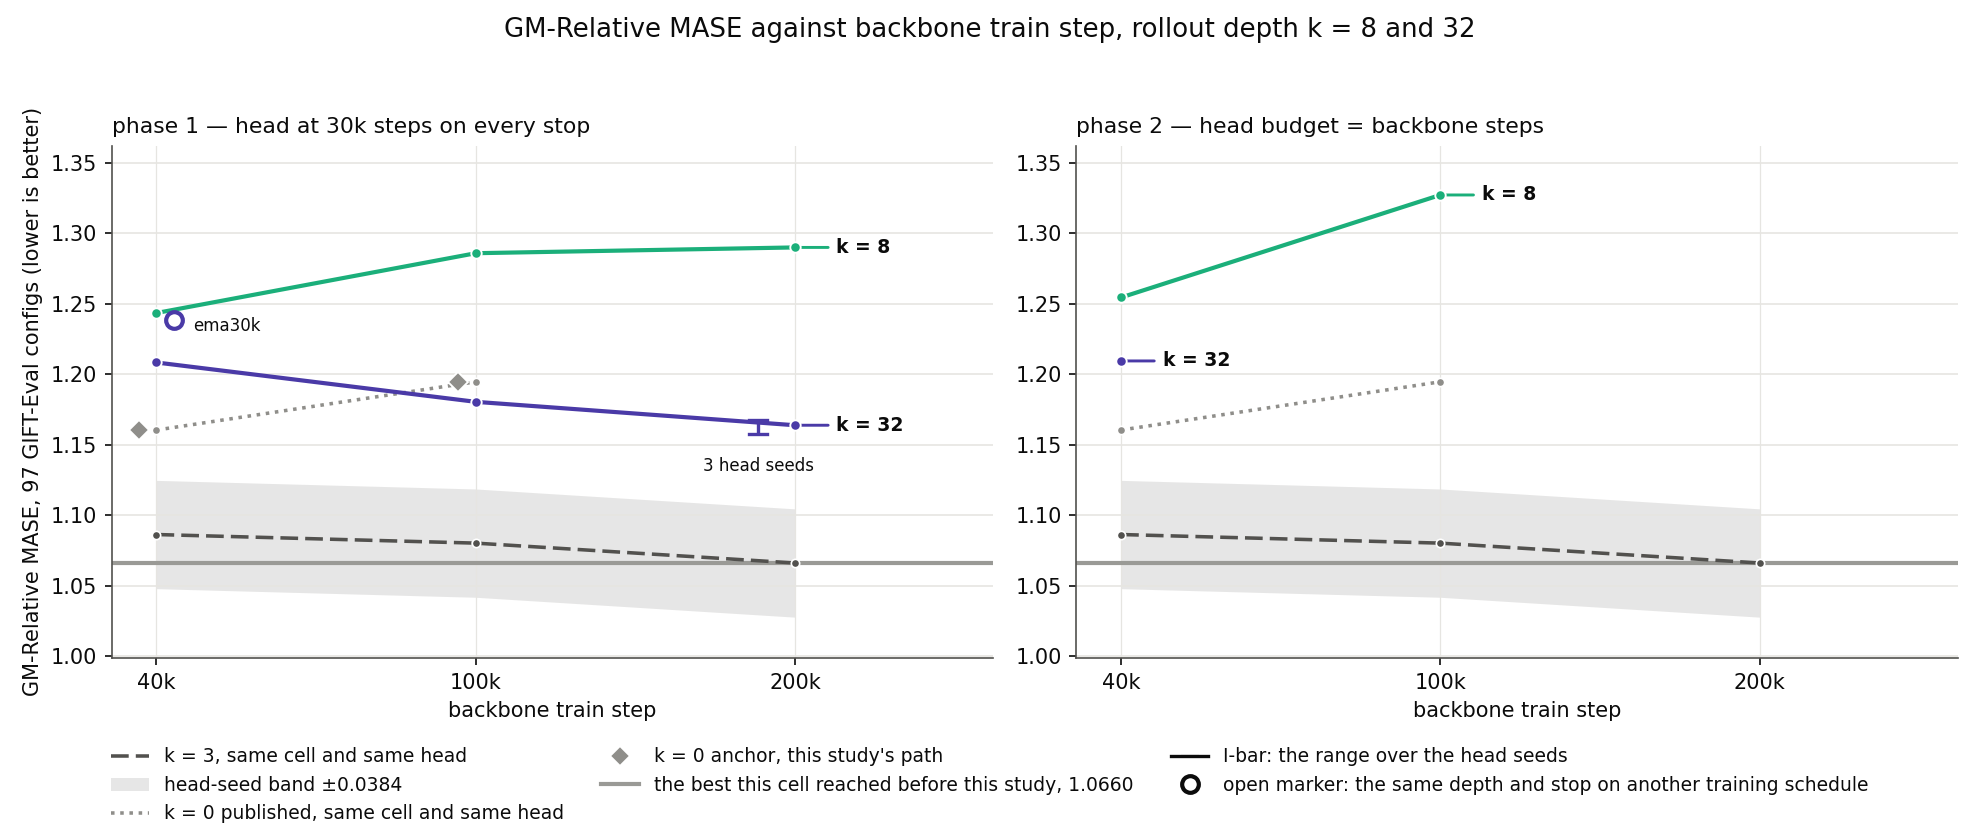
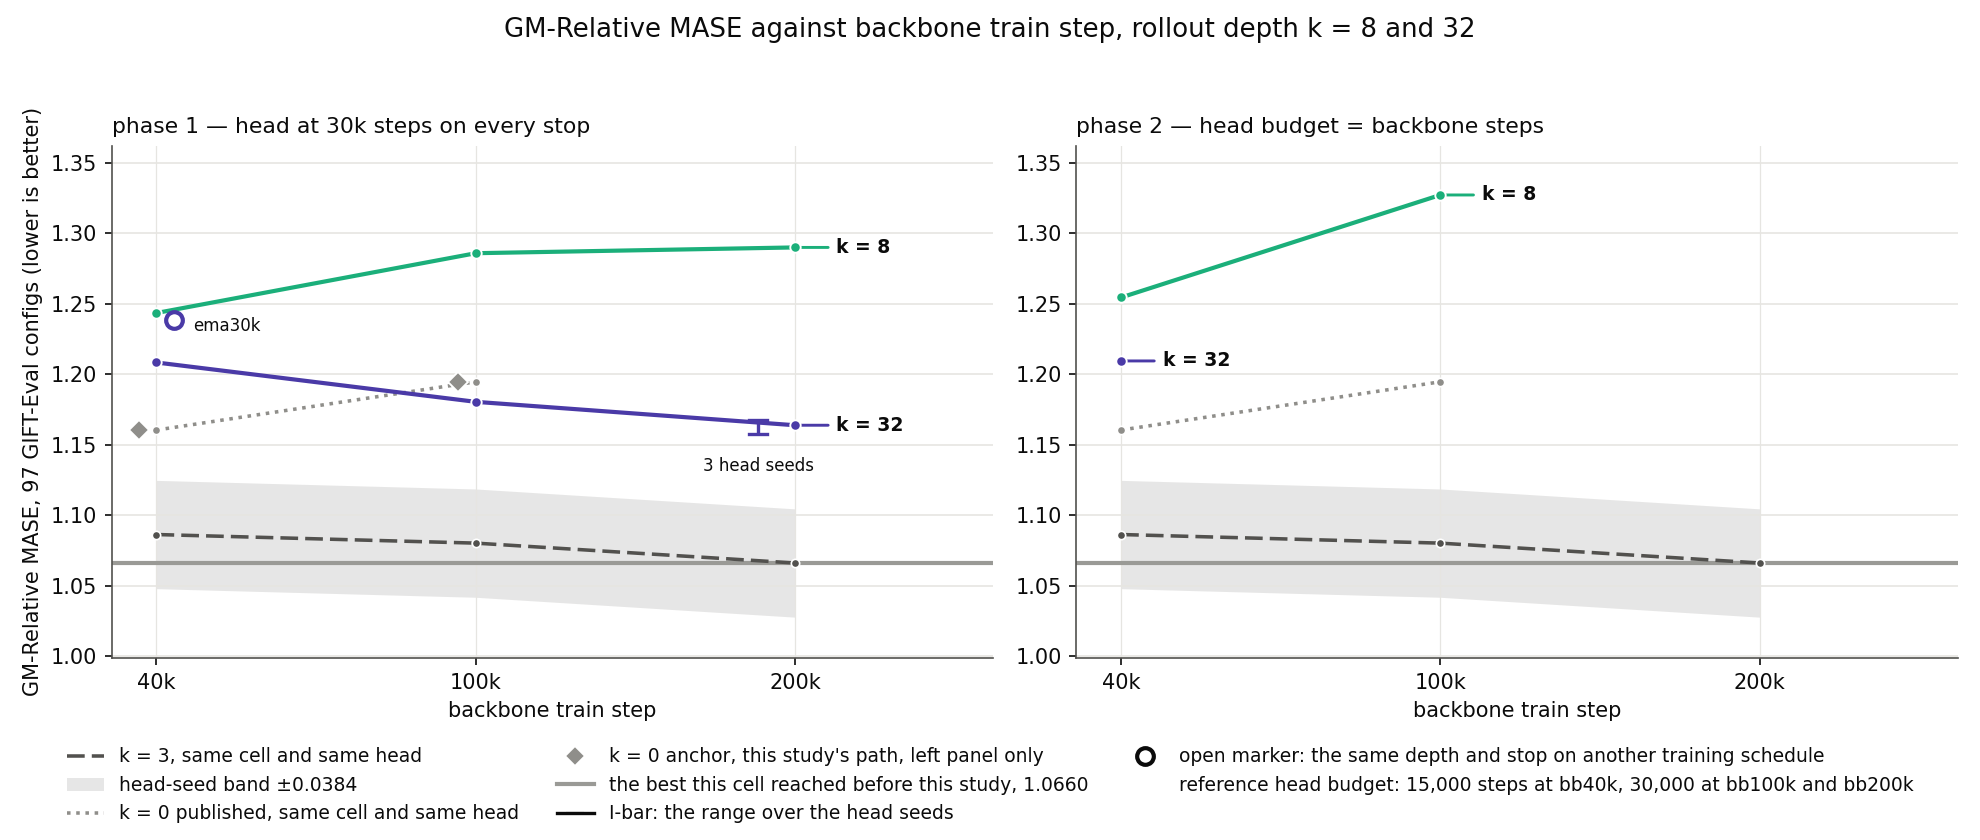
report(#401): the third control moves inside the band, and no cause is named
The path controls carried a head-budget explanation. Both are bb40k cells, so
both carry the same 15,000-to-30,000 head change, and they move 0.0003 and
0.0159. One change, two cells, fifty times apart. The table now gives the
three controls, their references and their moves, and stops there.

1.2751 lost the name "published". `published.py` gives B5 bb40k student as
1.2748. 1.2751 is the parent study's own re-evaluation of the same
checkpoint. Both numbers are in the row, each under its own name.

The reference head budget is now visible where a reader can act on it: the
control table, the phase-1 table note, and the ladder legend. The right panel
draws cells at 40,000 and 100,000 head steps against 15,000-step and
30,000-step references, so it is not head-matched.

Also: the ladder caption drops the I-bar sentence the legend already carries,
the phase-2 radar caption is a label and not a selection claim, the head-seed
paragraph keeps one sentence, and the repeats row keeps the three draws and
the range.

Changed region(s): [[0.0308, 0.8667, 0.9551, 0.9905]]

diff --git a/reports/2026-08-15_rollout_depth_k16_8_32/scripts/plot_depth_ladder.py b/reports/2026-08-15_rollout_depth_k16_8_32/scripts/plot_depth_ladder.py
@@ -31,6 +31,11 @@ changes across them:
   grey    #373's best on this cell, 1.0660 at bb200k. It is the number this
           study has to beat, and it is drawn on both panels.
 
+The dashed, the dotted and the grey mark are all the parent study's numbers,
+so they carry ITS head budget: 15,000 steps at bb40k and 30,000 at bb100k and
+bb200k. The right panel's own cells train 40,000 and 100,000 head steps, so
+that panel is not head-matched. `REF_HEAD_NOTE` puts this in the legend.
+
 A shaded band of +/-0.0384 rides on the k = 3 reference. That is the pooled
 head-seed band of `ema_sched_ladder.md`, which `noise_band.py` pools, and it
 is the rule the report reads
@@ -103,6 +108,12 @@ SEED_PREFIX = HEAD + "_s"
 # variant marker dodges right, so the anchor dodges left and the three stay
 # apart.
 ANCHOR_DODGE = 0.055
+
+# The head budget the k = 3, the k = 0 published and the grey reference all
+# carry. `rollout_depth.md` line 858: "Every bb40k head trains 15,000 steps
+# and every bb100k and bb200k head trains 30,000."
+REF_HEAD_NOTE = ("reference head budget: 15,000 steps at bb40k, "
+                 "30,000 at bb100k and bb200k")
 
 
 def read_scores(path):
@@ -400,7 +411,8 @@ def main(argv=None):
     if any(s in xs for s in anchor):
         handles.insert(3, Line2D([], [], marker="D", ms=7.0, lw=0,
                                  color=D.REF_K0_INK, mec="white", mew=0.9,
-                                 label="k = 0 anchor, this study's path"))
+                                 label="k = 0 anchor, this study's path, "
+                                       "left panel only"))
     if repeats:
         handles.append(Line2D([], [], marker="_", ms=9.0, lw=1.6,
                               color=D.INK,
@@ -411,6 +423,12 @@ def main(argv=None):
                    mec=D.INK, mew=2.0,
                    label="open marker: the same depth and stop on another "
                          "training schedule"))
+    # The head budget of the three reference marks. They are the parent
+    # study's own numbers, so they carry that study's head budget and not
+    # this one's. The right panel draws cells at 40,000 and 100,000 head
+    # steps against them, so the panel is not head-matched and the figure
+    # has to say so.
+    handles.append(Line2D([], [], lw=0, label=REF_HEAD_NOTE))
     fig.legend(handles=handles, loc="lower center",
                ncol=min(3, len(handles)), frameon=False, fontsize=9,
                bbox_to_anchor=(0.5, 0.0))

diff --git a/reports/2026-08-15_rollout_depth_k16_8_32/rollout_depth_k16_8_32.md b/reports/2026-08-15_rollout_depth_k16_8_32/rollout_depth_k16_8_32.md
@@ -71,14 +71,12 @@ k = 3. Long dash: sum. Dotted: mean.*
 ![GM-Relative MASE against backbone train step, rollout depth 8 and 32](plots/mean/depth_ladder.png)
 
 *GM-Relative MASE over the 97 GIFT-Eval configs, student head, mean
-reduction. Left: 30,000-step head. Right: head budget = backbone steps. The
-I-bar at bb200k is the range over three head seeds.*
+reduction. Left: 30,000-step head. Right: head budget = backbone steps.*
 
 No scored mean cell comes within the head-seed band of the k = 3 reference.
 The k = 0 anchor beats both depths at bb40k, and k = 8 and k = 32 sit inside
-the band of each other there. Three head seeds on `k32 bb200k` span 0.0100,
-so the pooled band of ±0.0384 is not optimistic here, and this report reads
-every difference against it.
+the band of each other there. This report reads every difference against the
+head-seed band.
 
 ## Per-domain
 
@@ -88,7 +86,7 @@ every difference against it.
 
 ![Per-domain GM-Relative MASE, phase 2](plots/mean/domain_radar_phase2.png)
 
-*The best phase-2 stop of each depth. Both are bb40k.*
+*Phase 2 at bb40k, both depths.*
 
 ## Limits
 
@@ -101,7 +99,7 @@ every difference against it.
 | the head budget | three pairs: two moves inside the band, and one at 1.1 times the band which is worse. Not resolved |
 | phase-2 cells pending | `k32 bb100k`, `k32 bb200k`, `k8 bb200k` |
 | the k = 0 anchor | measured at bb40k and bb100k, absent at bb200k. The k = 0 published covers bb40k and bb100k |
-| the eval path | this study's path returns the k = 0 published score at both stops that have one: 1.1600 against 1.1603, and 1.1945 against 1.1945. The one control that reads apart from its published number, 1.2910 against 1.2751, trains a 30,000-step head against that number's 15,000. That is a head-budget difference |
+| the eval path | three controls ran it. The k = 0 parent returns its published score at both stops that have one: 1.1600 against 1.1603, and 1.1945 against 1.1945. The third control reads 1.2910 against the published 1.2748, a move of 0.0162 that sits inside the band. This study establishes no cause for it |
 
 ## Tables
 
@@ -111,7 +109,7 @@ every difference against it.
 |---|---|---|
 | head-seed band | ±0.0384, pooled by `noise_band.py`, from [`ema_sched_ladder.md`](../2026-08-04_ema_sched_ladder/ema_sched_ladder.md) | the head seed alone |
 | backbone-seed variance | unmeasured | one backbone seed per cell |
-| in-study head-seed repeats | three draws on `k32 bb200k`: 1.1637, 1.1676, 1.1576. Mean 1.16297, range 0.0100, largest distance from the mean 0.0054 | the head seed on this study's own cell |
+| in-study head-seed repeats | three draws on `k32 bb200k`: 1.1637, 1.1676, 1.1576. Range 0.0100. All three rows are in `results/mean/scores.csv` | the head seed on this study's own cell |
 | the in-study range as the reading rule | not adopted. Three draws give a range, not a standard deviation, and a range over three points understates the spread. The pooled band is a maximum over many cells | — |
 
 *Absolute differences. The ladder figure carries the direction.*
@@ -148,8 +146,10 @@ every difference against it.
 *GM-Relative MASE over the 97 GIFT-Eval configs. Lower is better. The k = 3
 column reads the score files of
 [`rollout_depth.md`](../2026-08-08_rollout_depth/rollout_depth.md), same cell,
-same head, same eval. The k = 0 published column is transcribed from that
-study's parents.*
+same head, same eval. The k = 0 published column reads
+[`published.py`](../2026-08-08_rollout_depth/scripts/published.py). Both
+columns carry that study's head budget: 15,000 steps at bb40k and 30,000 at
+bb100k and bb200k.*
 
 | backbone stop | k = 8 | k = 32 | k = 0 anchor | k = 0 published | k = 3, same cell |
 |---|---:|---:|---:|---:|---:|
@@ -168,18 +168,22 @@ study's parents.*
 
 ### Control heads
 
-*Every control ran this study's path at this study's 30,000 head steps.
+*Every control ran this study's path at this study's 30,000 head steps. The
+reference column carries the parent study's head budget, from
+[`rollout_depth.md`](../2026-08-08_rollout_depth/rollout_depth.md) line 858.
 Sources: `results/diag/score_c1_pathbound_b5pub_bb40k_h30k_student.txt`,
-`results/diag/score_c2_k0anchor_a4parent_bb40k_h30k_student.txt` and
-`results/mean/scores.csv`.*
+`results/diag/score_c2_k0anchor_a4parent_bb40k_h30k_student.txt`,
+`results/mean/scores.csv`, and
+[`published.py`](../2026-08-08_rollout_depth/scripts/published.py) for every
+published value.*
 
-| control | what it measures | result |
-|---|---|---|
-| `k32 bb200k`, head seed 20260723 | in-study head-seed band | 1.1676 |
-| `k32 bb200k`, head seed 20260724 | in-study head-seed band | 1.1576 |
-| k = 0 parent, bb40k | the k = 0 anchor | 1.1600, against 1.1603 published |
-| k = 0 parent, bb100k | the k = 0 anchor at bb100k | 1.1945, against 1.1945 published |
-| the parent study's own published cell, bb40k | this study's path against a published number at a different head budget | 1.2910, against 1.2751 published at 15,000 head steps |
+| control | this study | reference | move | the reading |
+|---|---:|---|---:|---|
+| `k32 bb200k`, head seed 20260723 | 1.1676 | none | none | one draw of the in-study head-seed band |
+| `k32 bb200k`, head seed 20260724 | 1.1576 | none | none | one draw of the in-study head-seed band |
+| k = 0 parent, bb40k | 1.1600 | 1.1603 published, 15,000 head steps | 0.0003 | returns its reference |
+| k = 0 parent, bb100k | 1.1945 | 1.1945 published, 30,000 head steps | 0.0000 | returns its reference |
+| the parent study's own published cell, bb40k | 1.2910 | 1.2748 published, 15,000 head steps. 1.2751 is that study's own re-evaluation of the same checkpoint | 0.0162 against the published, 0.0159 against the re-evaluation | inside the band. This study establishes no cause |
 
 ### The two reductions, over every checkpoint on disk
 
